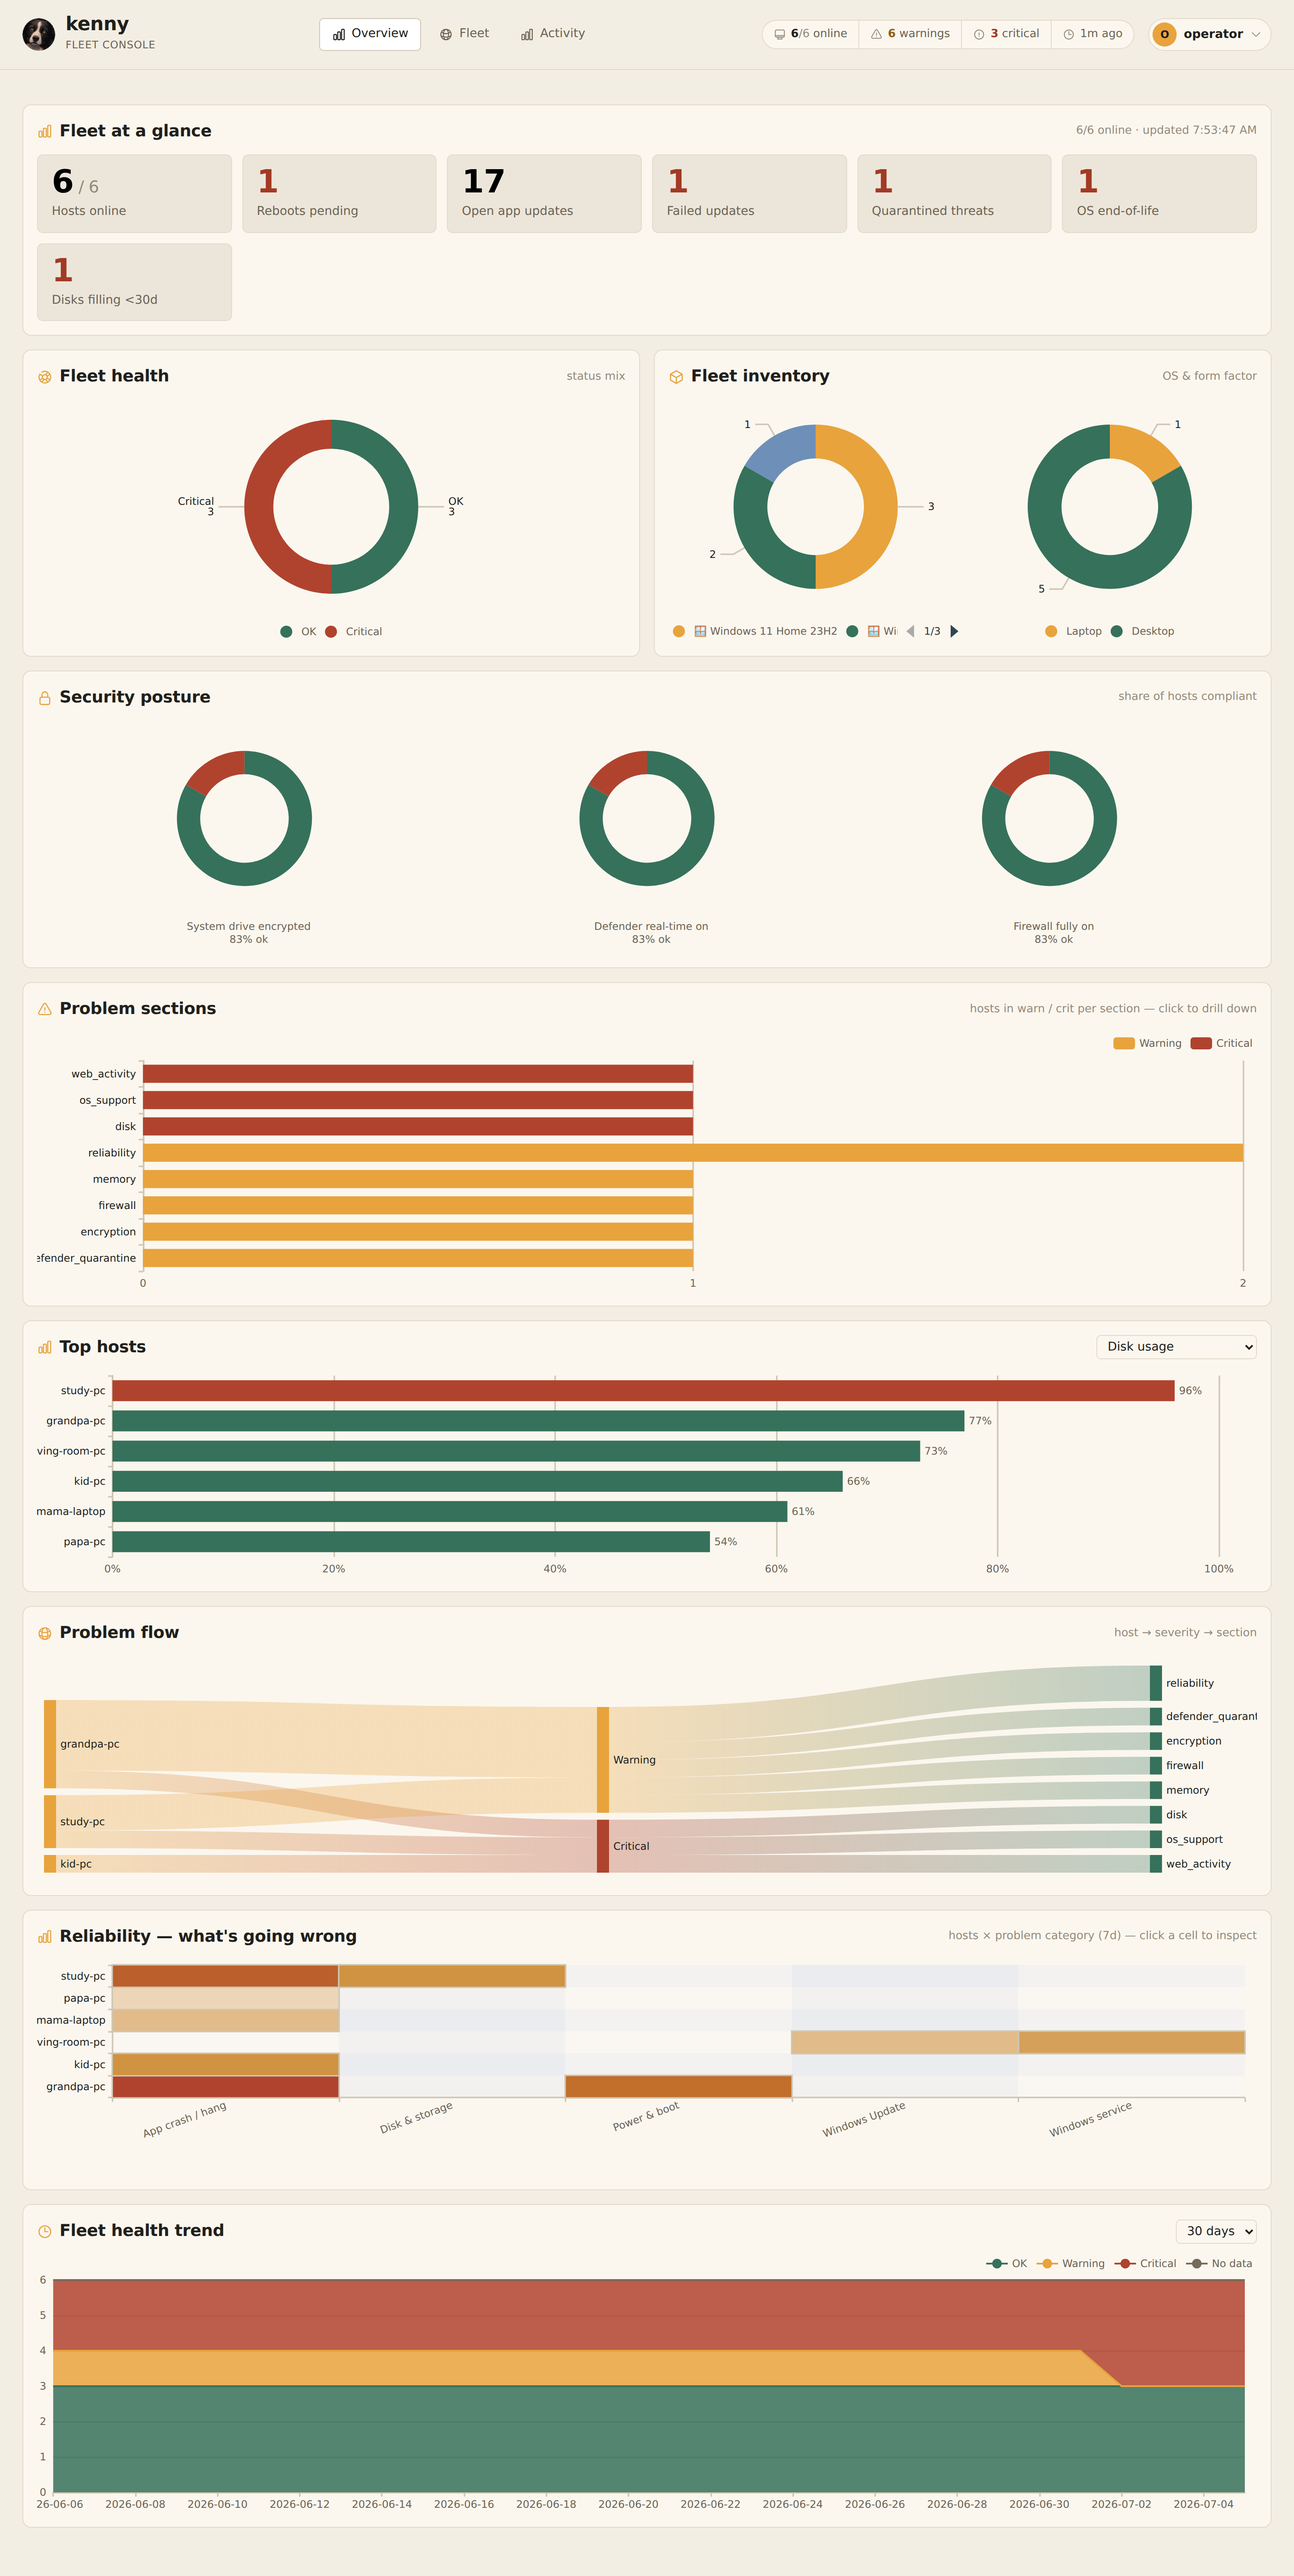
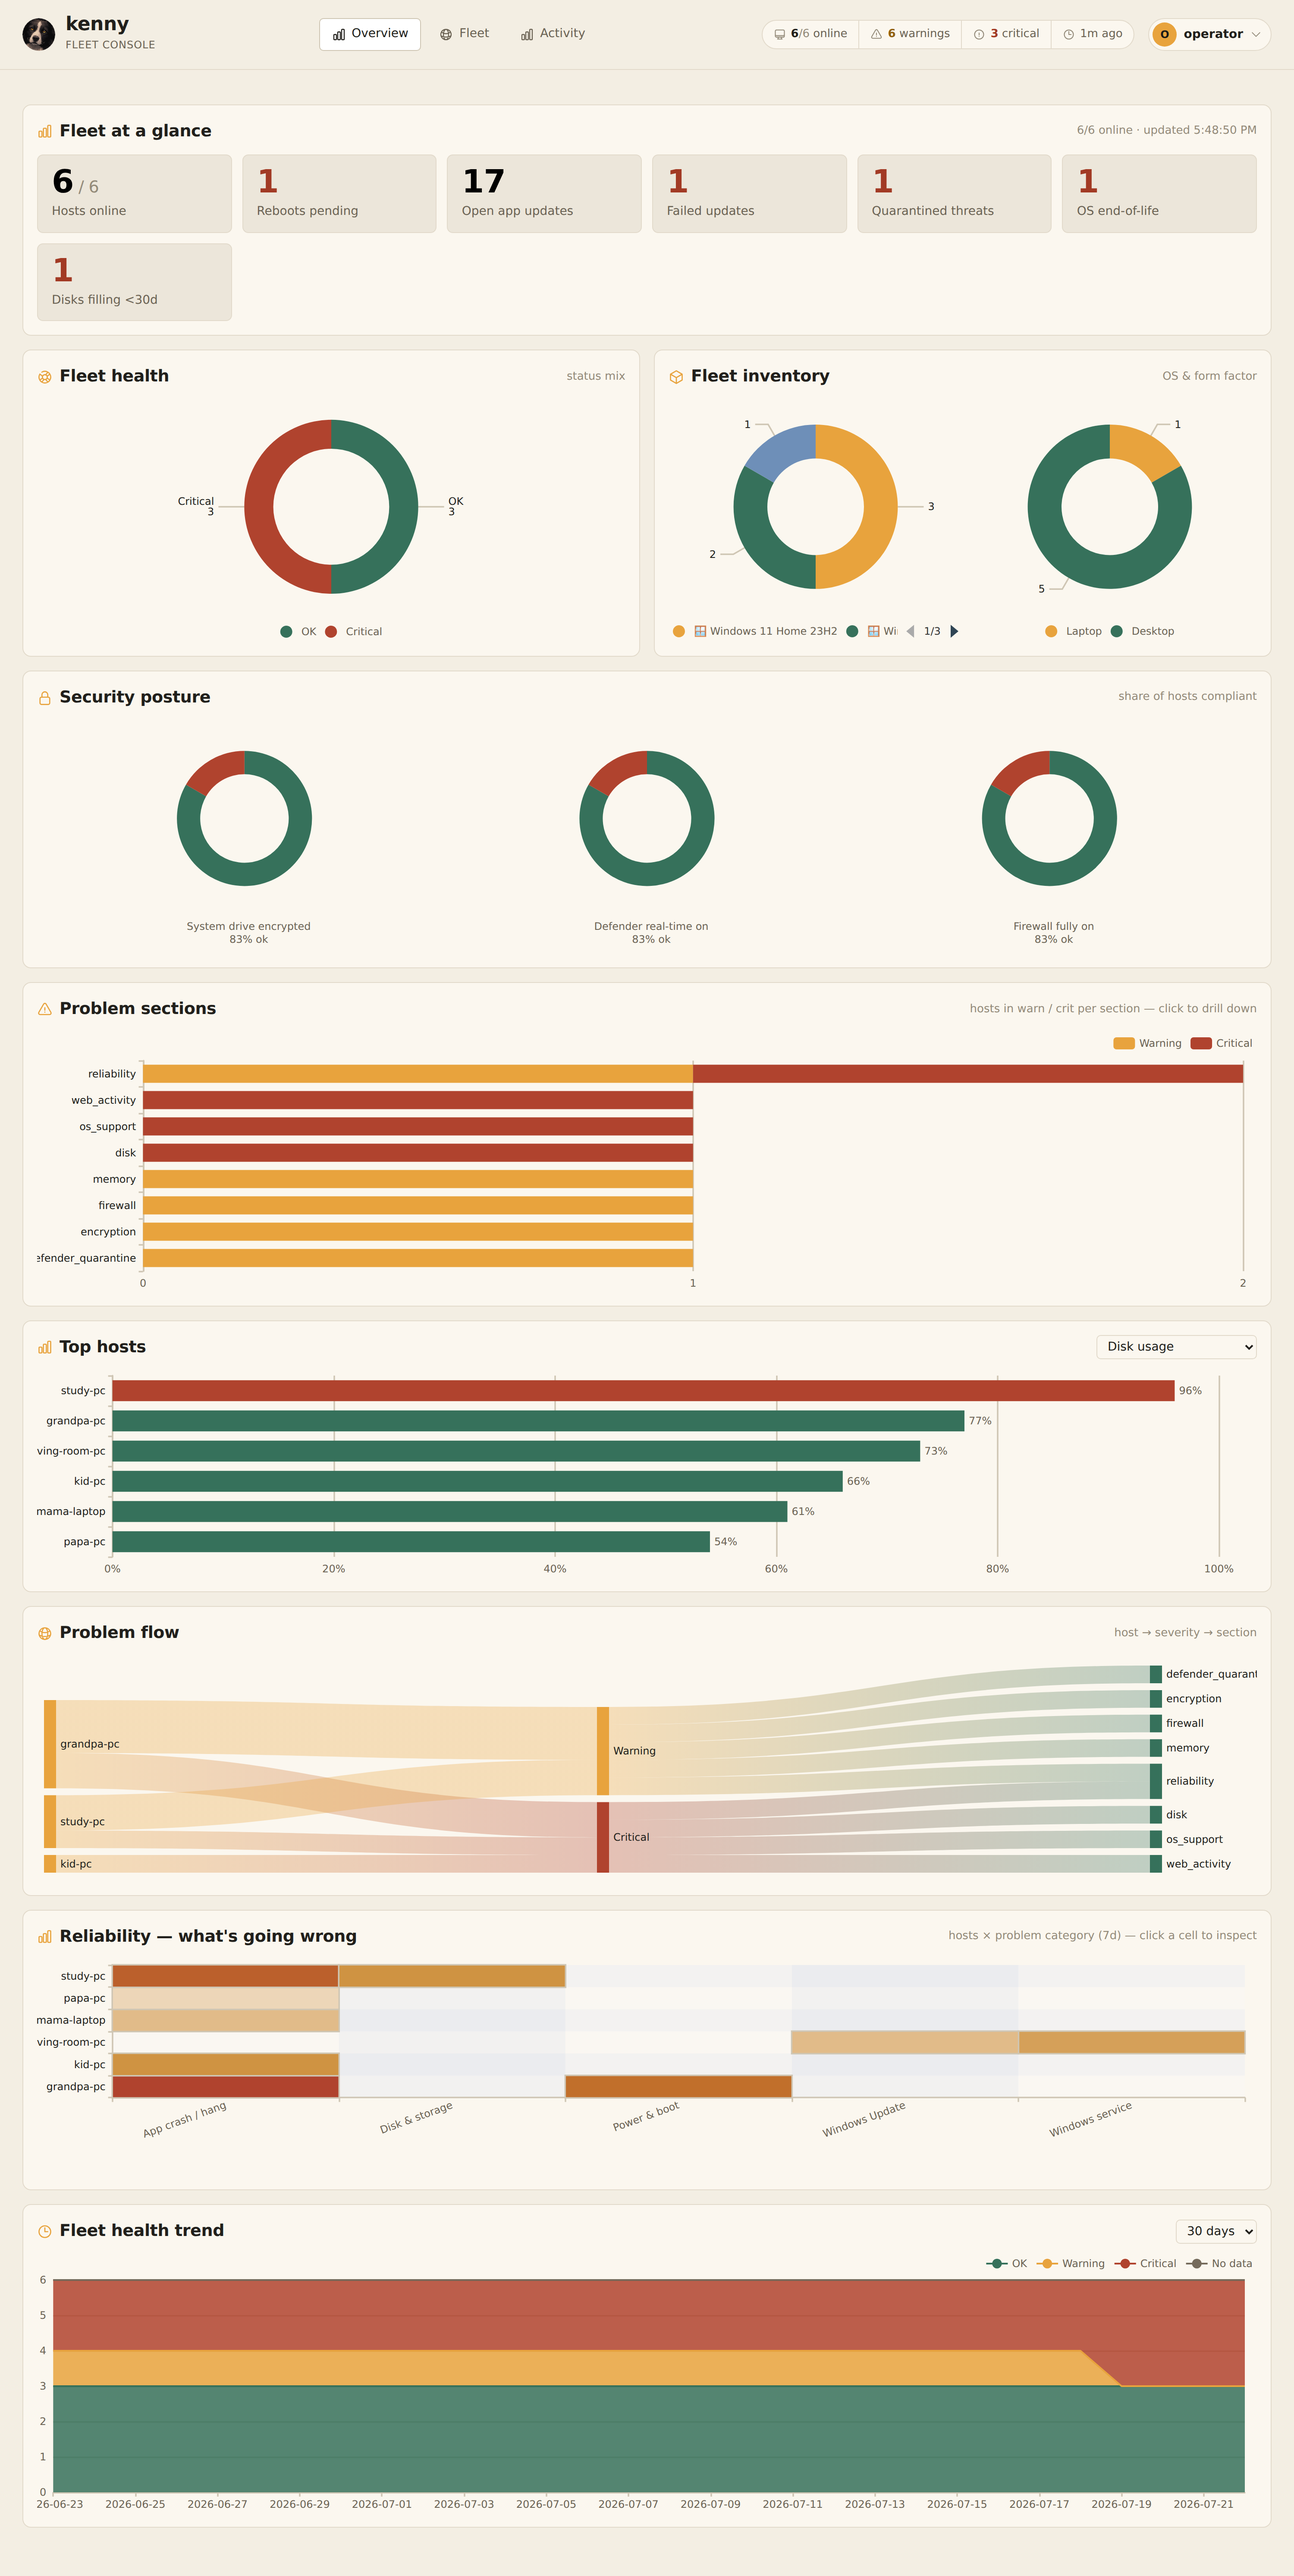
docs: reconcile telemetry/dashboard reference with pattern-severity scoring
Bring docs/telemetry.md and docs/dashboard.md in line with ADR-0042: the
reliability rule's exact thresholds, the heatmap's serious-severity crit
flag, and the severity badge + suspected cause in the detail view.

The screenshot demo fleet's categorization-cache seeding also fixed: it
poked event_categories's cache with a bare category string, which the new
{category, severity, cause} classification shape would have broken (an
AttributeError on the next dashboard render). Severities are chosen to
preserve each demo host's documented health mix. Regenerated the affected
screenshots (reliability, overview, overview-light, agent-detail) against
the updated demo data; flagged.png was re-captured but is byte-identical.

Claude-Session: https://claude.ai/code/session_015D9GLz9EkNS8ZsiToQmy82

Changed region(s): [[0.062, 0.405, 0.961, 0.4673], [0.372, 0.6543, 0.93, 0.7166], [0.155, 0.6543, 0.341, 0.7166]]

diff --git a/scripts/screenshots/demo_fleet.py b/scripts/screenshots/demo_fleet.py
@@ -35,16 +35,42 @@ _FIXTURE = (
 # and the per-agent sparkline / disk-fill + battery forecasts).
 HISTORY_DAYS = 30
 
-# Reliability (source, event_id) -> friendly category. Pre-seeded into the
-# server's categorization cache by :mod:`seed` so the heatmaps show varied
-# categories without an Anthropic API key (which would otherwise coerce every
-# group to "Other"; see event_categories.categorize_events).
-RELIABILITY_CATEGORIES: dict[tuple[str, int], str] = {
-    ("Application Error", 1000): "App crash / hang",
-    ("disk", 51): "Disk & storage",
-    ("Microsoft-Windows-Kernel-Power", 41): "Power & boot",
-    ("Service Control Manager", 7034): "Windows service",
-    ("Microsoft-Windows-WindowsUpdateClient", 20): "Windows Update",
+# Reliability (source, event_id) -> classification (category/severity/cause).
+# Pre-seeded into the server's categorization cache by :mod:`seed` so the
+# heatmaps *and* the health rule's pattern-severity scoring (ADR-0042) show
+# varied, deliberate results without an Anthropic API key (which would
+# otherwise coerce every group to category="Other", severity="unknown"; see
+# event_categories.categorize_events). Severities are chosen to preserve each
+# host's documented health mix (above) while still demonstrating the range:
+# an occasional app crash and background update-client noise are benign
+# nuisances (kept off the crit/warn path regardless of count), a disk I/O
+# error and a recurring critical-level power event are serious.
+RELIABILITY_CLASSIFICATIONS: dict[tuple[str, int], dict[str, str]] = {
+    ("Application Error", 1000): {
+        "category": "App crash / hang",
+        "severity": "benign",
+        "cause": "an occasional app crash, not a systemic pattern",
+    },
+    ("disk", 51): {
+        "category": "Disk & storage",
+        "severity": "serious",
+        "cause": "possible failing sectors on the disk",
+    },
+    ("Microsoft-Windows-Kernel-Power", 41): {
+        "category": "Power & boot",
+        "severity": "serious",
+        "cause": "unexpected shutdown, possible power or hardware issue",
+    },
+    ("Service Control Manager", 7034): {
+        "category": "Windows service",
+        "severity": "benign",
+        "cause": "a service restarting itself, usually self-resolves",
+    },
+    ("Microsoft-Windows-WindowsUpdateClient", 20): {
+        "category": "Windows Update",
+        "severity": "benign",
+        "cause": "background update-client retry noise",
+    },
 }
 
 

diff --git a/scripts/screenshots/seed.py b/scripts/screenshots/seed.py
@@ -14,7 +14,8 @@ It populates, per host:
 
 plus a few fleet-wide Activity rows (an audit call, an alert, a log line) and a
 couple of persisted copilot conversations, and it pre-seeds the reliability
-category cache so the heatmaps show friendly categories without an API key.
+categorization cache so the heatmaps and health scoring show friendly
+categories/severities (ADR-0028, ADR-0042) without an API key.
 """
 
 from __future__ import annotations
@@ -67,16 +68,18 @@ async def seed_app(app: Any, base: datetime | None = None) -> list[str]:
 
 
 def _seed_reliability_categories() -> None:
-    """Pre-fill the categorization cache so heatmaps show friendly categories.
+    """Pre-fill the categorization cache so heatmaps + health scoring show
+    friendly categories/severities (ADR-0028, ADR-0042) without an API key.
 
-    With no ANTHROPIC_API_KEY the categorizer coerces every group to "Other";
-    priming the module cache by ``(source, event_id)`` makes ``categorize_events``
-    return our intended categories from cache (it checks the cache before the
+    With no ANTHROPIC_API_KEY the categorizer coerces every group to the safe
+    default (``category="Other"``, ``severity="unknown"``); priming the module
+    cache by ``(source, event_id)`` makes ``categorize_events`` return our
+    intended classifications from cache (it checks the cache before the
     client, so ``client is None`` still yields the primed values).
     """
 
-    for (source, event_id), category in demo_fleet.RELIABILITY_CATEGORIES.items():
-        event_categories._cache_put((source, event_id), category)  # noqa: SLF001
+    for key, classification in demo_fleet.RELIABILITY_CLASSIFICATIONS.items():
+        event_categories._cache_put(key, classification)  # noqa: SLF001
 
 
 async def _seed_webfilter(store: Any, agent_id: str, wf: dict[str, Any]) -> None:

diff --git a/docs/telemetry.md b/docs/telemetry.md
@@ -68,7 +68,7 @@ rule column).
 | `memory` | RAM usage | `percent_used` > 95 → **crit**; > 85 → **warn** |
 | `thermals` | Temperature sensors | hottest sensor ≥ 95 °C → **crit**; ≥ 85 °C → **warn** |
 | `battery` | Battery health and charge (laptops) | `health_percent` < 50 → **crit**; < 70 → **warn**. Laptops only; `battery.present` drives the device (laptop/desktop) pie |
-| `reliability` | Grouped Error/Critical event-log breakdown, stability index | `recent_crashes` ≥ 50 **or** `stability_index` < 3 → **crit**; ≥ 15 events, any critical-level group, **or** `stability_index` < 6 → **warn**. Reason names the top-3 problem categories |
+| `reliability` | Grouped Error/Critical event-log breakdown, stability index | Scored on **pattern severity**, not raw count, once the read-path categorizer has annotated each group (ADR-0042): a `serious` pattern recurring ≥ 10×, **or** ≥ 5 distinct non-`benign` patterns, **or** `stability_index` < 3 → **crit**; any non-`benign` (`notable`/`unknown`/`serious`) pattern **or** `stability_index` < 6 → **warn**; all-`benign` → **ok** regardless of count. Reason names the dominant pattern (source/event id, cadence, suspected cause), or says so explicitly when everything is benign. Without annotation (no API key yet, or a raw payload) falls back to `recent_crashes` ≥ 50 **or** `stability_index` < 3 → **crit**; ≥ 15 events, ≥ 8 distinct patterns, any critical-level group, **or** `stability_index` < 6 → **warn** |
 | `web_activity` | Observed domains (parental controls) | a serious flagged hit (`custom` / `seed` / `external_adult`) in 24 h → **crit**; a `bypass` hit in 24 h → **warn** (see [`parental-controls.md`](parental-controls.md)) |
 | `listening_ports` | Listening TCP/UDP ports | a non-loopback listener on **22 / 3389 / 5900 / 5985 / 5986** → **warn** |
 | `local_accounts` | Local users and administrators | an enabled admin with `password_required` false **and** no password ever set → **crit**; built-in Administrator or Guest enabled → **warn** |
@@ -102,28 +102,37 @@ rule column).
 
 The `reliability` section reports a **breakdown** of Error/Critical Windows event-log
 entries — grouped by `source` + `event_id`, each with a sample message and per-day counts
-— rather than a single number. To make those groups legible, the server sorts each
-distinct group into one **friendly category**:
+— rather than a single number. To make those groups legible (and to score them
+meaningfully, see below), the server sorts each distinct group into one **friendly
+category**:
 
 *Disk & storage · App crash / hang · Bluescreen / bugcheck · Driver & hardware · Power &
 boot · Windows service · Windows Update · Network · Security · Other.*
 
-The mapping is done by the **connected LLM (Haiku)** on the telemetry **read path**,
-validated against that fixed enum, and **cached** by `(source, event_id)` — so after
-warm-up it is effectively a no-op. The category is a server-side annotation; the agent
-never sends it. Without an `ANTHROPIC_API_KEY` (or on an API error) every group **degrades
-gracefully to _Other_**, and the heatmaps and expandable raw groups still work.
+— plus a **severity** (`benign` / `notable` / `serious`, or `unknown` when the model is
+genuinely unsure) and a short plain-language **suspected cause** for the pattern.
 
-This categorization drives the reliability heatmaps: hosts × category across the fleet, and
-category × day for one PC.
+The classification is done by the **connected LLM (Haiku)** on the telemetry **read path**,
+validated against fixed enums, and **cached** by `(source, event_id)` — so after warm-up it
+is effectively a no-op. Category/severity/suspected-cause are server-side annotations; the
+agent never sends them. Without an `ANTHROPIC_API_KEY` (or on an API error) every group
+**degrades gracefully to `category="Other"`, `severity="unknown"`** — never to `benign` —
+and the heatmaps, health scoring, and expandable raw groups still work.
+
+This drives both the reliability heatmaps — hosts × category across the fleet, and
+category × day for one PC — and, since ADR-0042, the health rule itself: a pattern's
+`severity` is what tells "300 repeats of one known-benign timeout" apart from "300 distinct
+novel errors" (see the `reliability` row in the section table above). A group with
+`severity="serious"` also flags its heatmap cell **crit**, even when the agent-reported
+Windows `level` is plain `"error"`.
 
 <figure markdown>
 ![The reliability section detail: a category-by-day heatmap above expandable event groups.](assets/screenshots/reliability.png)
-<figcaption>The reliability section detail — a category × day heatmap plus expandable event groups down to sample messages.</figcaption>
+<figcaption>The reliability section detail — a category × day heatmap plus expandable event groups down to sample messages, each with a severity badge and suspected cause.</figcaption>
 </figure>
 
 See [ADR-0028](adr/0028-llm-categorization-of-reliability-events.md) for the categorization
-decision.
+decision and [ADR-0042](adr/0042-semantic-reliability-scoring.md) for scoring by severity.
 
 ## Screen time
 
@@ -162,5 +171,6 @@ See [`setup.md`](setup.md) for these and other environment variables, and
 - [`protocol.md`](protocol.md) — the agent ⇄ server wire contract
 - [ADR-0007](adr/0007-telemetry-push-model-and-sqlite-storage.md) — push model & SQLite storage
 - [ADR-0028](adr/0028-llm-categorization-of-reliability-events.md) — LLM reliability categorization
+- [ADR-0042](adr/0042-semantic-reliability-scoring.md) — scoring reliability by pattern severity
 - [ADR-0031](adr/0031-security-and-resilience-telemetry-sections.md) — security & resilience sections
 - [ADR-0032](adr/0032-screen-time-aggregated-session-minutes.md) — screen-time aggregation

diff --git a/docs/dashboard.md b/docs/dashboard.md
@@ -150,10 +150,11 @@ read "*this PC is critical because of these two sections*" at a glance.
 ### Reliability — what's going wrong
 
 A heatmap of **hosts × friendly problem category** over the last 7 days; each cell's colour is
-the event count. Categories come from the server-side reliability categorizer
-(App crash / hang, Disk & storage, Power & boot, …; see
-[Telemetry reference](telemetry.md#reliability-categorization)). Click a cell to inspect the
-loudest sources behind it.
+the event count, and a cell is flagged **crit** if any of its events is agent-reported
+`level: critical` **or** was classified `severity: serious` by the reliability categorizer.
+Categories come from that same server-side categorizer (App crash / hang, Disk & storage,
+Power & boot, …; see [Telemetry reference](telemetry.md#reliability-categorization)). Click a
+cell to inspect the loudest sources behind it.
 
 ### Fleet health trend
 
@@ -247,11 +248,14 @@ rule-reason chip.
   the issue fixable with kenny's tools it adds an **Auto-Remediate** button that hands a
   suggested prompt to the copilot (state-changing steps still hit the confirm-gate). See
   [ADR-0019](adr/0019-ai-recommendations-and-auto-remediation.md).
-- **Reliability** has a custom renderer — a category × day heatmap plus expandable event groups:
+- **Reliability** has a custom renderer — a category × day heatmap plus expandable event
+  groups, each row showing a **severity badge** (`benign`/`notable`/`serious`/`unknown`) and
+  the categorizer's plain-language **suspected cause** alongside the raw sample message (see
+  [ADR-0042](adr/0042-semantic-reliability-scoring.md)):
 
   <figure markdown>
     ![The reliability section detail](assets/screenshots/reliability.png)
-    <figcaption>Reliability: what is going wrong, as a category×day heatmap, with each category expanding to the raw sources, event ids, and sample messages.</figcaption>
+    <figcaption>Reliability: what is going wrong, as a category×day heatmap, with each category expanding to the raw sources, event ids, severity, suspected cause, and sample messages.</figcaption>
   </figure>
 
 - **Web activity** has the **parental-controls list editor** (toggles, custom domains,
